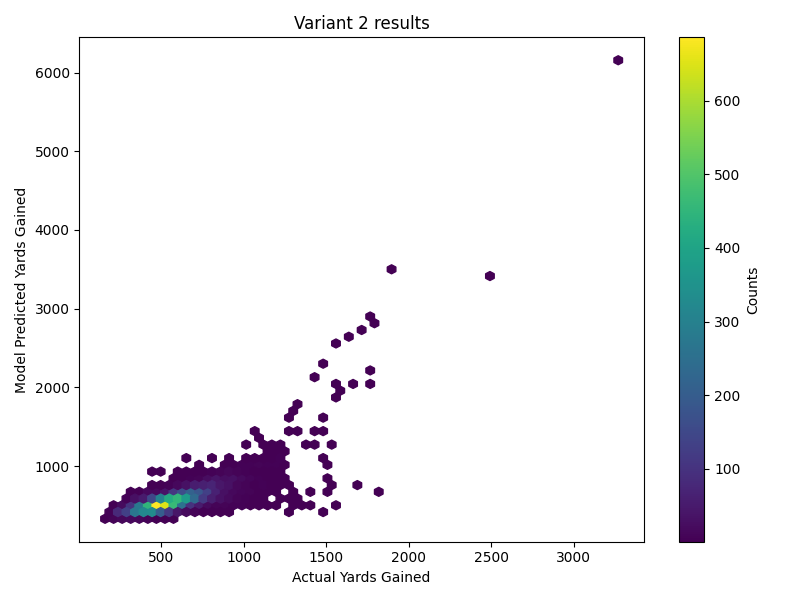
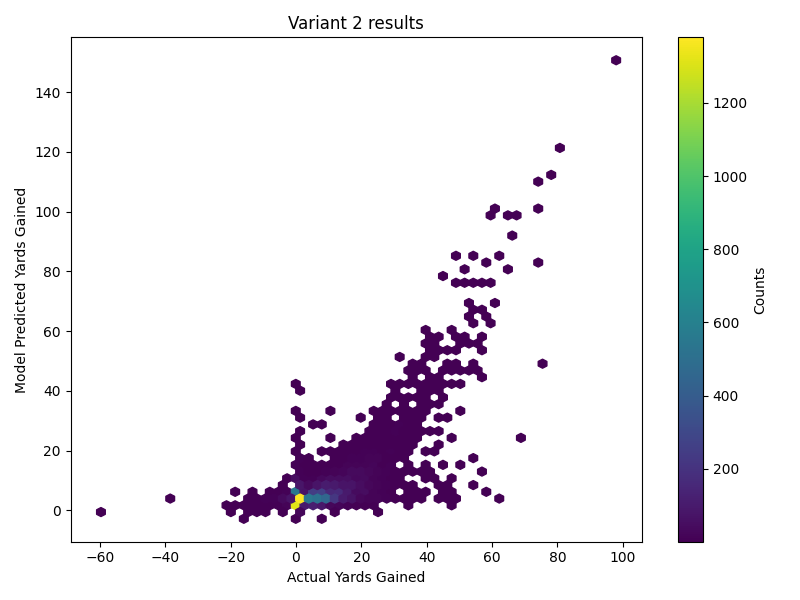
normalization

diff --git a/data.py b/data.py
@@ -9,6 +9,9 @@ class PlaysData(Dataset):
     VARIANTS_OUTPUT_SIZE = {1:5,2:1,3:3,4:5,5:1,6:3}
     # QB will be removed when exception scenarios are removed/considered
     RECEIVER_TYPES = ["WR", "TE", "QB", "RB", "FB"]
+    FIELDS_RECEIVERS = ['x', 'y', 'vel', 'accel', 'orientation', 'dist_qb', 'receiver_type', 'route_ran']
+    FIELDS_DEFENDERS = ['x', 'y', 'vel', 'accel', 'orientation']
+
 
     def plot_distributions(data, col, v):
         plt.figure(figsize=(6, 4))
@@ -86,6 +89,7 @@ class PlaysData(Dataset):
                 self.data[f"orientation_{i}"] = []
                 self.data[f"dist_qb_{i}"] = []
                 self.data[f"receiver_type_{i}"] = []
+                self.data[f"route_ran_{i}"] = []
                 for j in range(2):
                     self.data[f"defensor_x_{i}_{j}"] = []
                     self.data[f"defensor_y_{i}_{j}"] = []
@@ -173,9 +177,8 @@ class PlaysData(Dataset):
                 self.data["qb_accel"].append(qb_snap['a'])
             
             # getting receivers features
-            fields = ['x', 'y', 'vel', 'accel', 'orientation', 'dist_qb', 'receiver_type']
             if self.get_receiver_id:
-                fields.append('nflId')
+                PlaysData.FIELDS_RECEIVERS.append('nflId')
 
             targetedReceiver = None
             self.receivers = play_players[play_players['routeRan'].notna()].copy()
@@ -206,6 +209,7 @@ class PlaysData(Dataset):
                             dist = ((r_snap['x'] - qb_snap['x']) ** 2 + (r_snap['y'] - qb_snap['y']) ** 2) ** 0.5
                             self.data[f"dist_qb_{j}"].append(dist)
                             self.data[f"receiver_type_{j}"].append(r['position'])
+                            self.data[f"route_ran_{j}"].append(r['routeRan'])
                         if r["wasTargettedReceiver"]:
                             targetedReceiver = j
                         
@@ -225,19 +229,19 @@ class PlaysData(Dataset):
                                     self.data[f"defensor_accel_{j}_{k}"].append(d['a'])
                                     self.data[f"defensor_orientation_{j}_{k}"].append(d['o'])
                                 else:
-                                    for field in ['x', 'y', 'vel', 'accel', 'orientation']:
+                                    for field in PlaysData.FIELDS_DEFENDERS:
                                         self.data[f"defensor_{field}_{j}_{k}"].append(None)
                     elif not self.just_shoulder_orientation:
-                        for field in fields:
+                        for field in PlaysData.FIELDS_RECEIVERS:
                             self.data[f"{field}_{j}"].append(None)
                         for k in range(2):
-                            for field in ['x', 'y', 'vel', 'accel', 'orientation']:
+                            for field in PlaysData.FIELDS_DEFENDERS:
                                 self.data[f"defensor_{field}_{j}_{k}"].append(None)
                 elif not self.just_shoulder_orientation:
-                    for field in fields:
+                    for field in PlaysData.FIELDS_RECEIVERS:
                         self.data[f"{field}_{j}"].append(None)
                     for k in range(2):
-                        for field in ['x', 'y', 'vel', 'accel', 'orientation']:
+                        for field in PlaysData.FIELDS_DEFENDERS:
                             self.data[f"defensor_{field}_{j}_{k}"].append(None)
             
             if self.just_shoulder_orientation:
@@ -323,10 +327,10 @@ class PlaysData(Dataset):
         self.receivers = self.receivers.sort_values(by='y', ascending=True).head(5)
         
     def converting_numerical_and_cleaning(self, r=False, receiver_to_project=0):
+         #removing initial nans 
         if self.just_shoulder_orientation:
             self.data.dropna(subset=["qb_orientation"], inplace=True)
         else:
-            #removing initial nans (just based on results or x_0)
             drop_subset = ['result', 'x_0']      
             if self.get_receiver_id:
                 drop_subset.append(f'nflId_{receiver_to_project}')
@@ -363,12 +367,16 @@ class PlaysData(Dataset):
                         return round(x, 3)
                     return x 
                 self.data = self.data.applymap(round_)
-                    
+        
+        for col in tqdm(self.data.columns):
+        #numerical features normalization (except yardline)
+            self.data[col] = (self.data[col] - self.data[col].min()) / (self.data[col].max() - self.data[col].min())
+
+
         self.data.reset_index(drop=True, inplace=True)
         self.length = len(self.data)
         self.col_size = self.data.shape[1]
 
-        #maybe also normalizing values?
         
     def check_nan_features(self):
         nan_columns = self.data.columns[self.data.isna().any()].tolist()

diff --git a/test.py b/test.py
@@ -138,7 +138,7 @@ def getting_time_series_analysis_binary_classification(model_file, i=4):
     plt.show()
 
 def further_analysis_results_variant_two(file_path):
-        loader, dataset = getting_loader(1, save=False, num_workers=0, variant = 2, train_p=0.8, saved=True, distr_analysis=False, get_dataset=True, drop_qb_orientation=False, split=False)
+        loader, dataset = getting_loader(1, save=False, num_workers=0, variant = 2, train_p=0.8, saved=True, distr_analysis=False, get_dataset=True, drop_qb_orientation=False, split=False, beta=True)
 
         state = torch.load(file_path, map_location=DEVICE)
         output_dim = 1
@@ -158,7 +158,7 @@ def further_analysis_results_variant_two(file_path):
             differences.append(diff.squeeze().item())
 
         plt.figure(figsize=(8, 6))
-        plt.hexscatterbin(actual_gained_yards, results, gridsize=60, cmap='viridis', mincnt=1)
+        plt.hexbin(actual_gained_yards, results, gridsize=60, cmap='viridis', mincnt=1)
         plt.colorbar(label='Counts')
         plt.xlabel("Actual Yards Gained")
         plt.ylabel("Model Predicted Yards Gained")
@@ -182,7 +182,8 @@ def getting_time_series_analysis_multi_class_classification(model_file):
 def getting_time_series_analysis_for_each_receiver(model_file):
     pass
 
-shoulder_orientation_feature_correlation_analysis()
+further_analysis_results_variant_two("models/model_variant2_lr0.01_n250000.pkl")
+# shoulder_orientation_feature_correlation_analysis()
 # further_analysis_results_variant_two("models/model_variant2_lr0.01_n250000.pkl")
 
 # for filename in os.listdir("models"):
